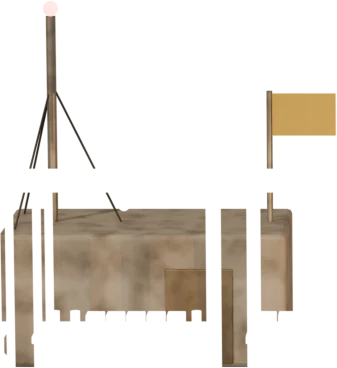
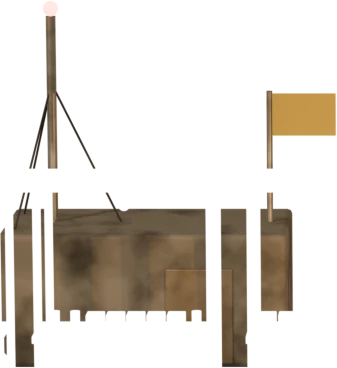
feat(v2): weathered surface (dark stained concrete, corrugated roof, sandbags, crates, tank, tyres; darker wood and lighting), soft see-through barrel fire, darker Command Center tiers; battle music (8 s war-drum loop with ostinato, drone and string stabs) fades in and out with each battle

Changed region(s): [[0.0, 0.5679, 0.6231, 1.0], [0.7715, 0.5679, 0.8902, 0.8668], [0.6528, 0.5679, 0.7418, 1.0]]

diff --git a/src/v2/sound.ts b/src/v2/sound.ts
@@ -116,6 +116,112 @@ function startAmbience(): void {
   }, 1200);
 }
 
+/** Battle music: 8 s loop at 120 bpm (D minor) - war drums, a pulsing low ostinato, a dark drone and string stabs. */
+const battleMusic: Builder = (c, out, wet) => {
+  const beat = 0.5;
+  const drum = (t: number, f0: number, peak: number) => {
+    const o = osc(c, 'sine', f0);
+    o.frequency.setValueAtTime(f0, t);
+    o.frequency.exponentialRampToValueAtTime(f0 * 0.45, t + 0.35);
+    const g = gain(c, 0);
+    envelope(g.gain, t, peak, 0.004, 0.02, 0.45);
+    o.connect(g).connect(out);
+    g.connect(wet);
+    o.start(t);
+    o.stop(t + 0.6);
+    noiseHit(c, out, t, 0.12, peak * 0.35, 'lowpass', 900, 0.7, 'brown', 17);
+  };
+  for (let bar = 0; bar < 4; bar++) {
+    const b0 = bar * 4 * beat;
+    // taiko pattern: 1 . 3 4& , accent on the last bar
+    drum(b0, 95, 0.9);
+    drum(b0 + 2 * beat, 85, 0.75);
+    drum(b0 + 3 * beat, 95, 0.6);
+    drum(b0 + 3.5 * beat, 110, bar === 3 ? 0.8 : 0.45);
+    // snare-like rim on 2 and 4
+    noiseHit(c, out, b0 + beat, 0.09, 0.22, 'bandpass', 2400, 1.2, 'white', 19 + bar);
+    noiseHit(c, out, b0 + 3 * beat, 0.09, 0.26, 'bandpass', 2200, 1.2, 'white', 23 + bar);
+    // hats on the off-beats
+    for (let k = 0; k < 8; k++) noiseHit(c, out, b0 + k * beat / 2 + beat / 4, 0.03, 0.06, 'highpass', 7000, 0.7, 'white', 29 + k);
+  }
+  // low ostinato (8ths): D D F D | D D A# A
+  const notes = [38, 38, 41, 38, 38, 38, 46, 45];
+  for (let i = 0; i < 32; i++) {
+    const t = i * beat / 2;
+    const f = 440 * 2 ** ((notes[i % 8] - (Math.floor(i / 16) ? 2 : 0) - 69) / 12);
+    const o = osc(c, 'sawtooth', f);
+    const lp = filter(c, 'lowpass', 520, 3);
+    const g = gain(c, 0);
+    envelope(g.gain, t, 0.11, 0.008, 0.06, 0.14);
+    o.connect(lp).connect(g).connect(out);
+    o.start(t);
+    o.stop(t + 0.3);
+  }
+  // drone (D2 + A2) breathing over the loop
+  for (const n of [38, 45]) {
+    const o = osc(c, 'sawtooth', 440 * 2 ** ((n - 12 - 69) / 12), n === 45 ? 7 : -7);
+    const lp = filter(c, 'lowpass', 300, 0.8);
+    const g = gain(c, 0.05);
+    o.connect(lp).connect(g).connect(out);
+    g.connect(wet);
+    o.start(0);
+    o.stop(8.5);
+  }
+  // string stabs on bars 2 and 4 (D minor triad, then Bb)
+  for (const [t, chord] of [[2, [62, 65, 69]], [6, [58, 62, 65]]] as [number, number[]][]) {
+    for (const n of chord) {
+      const o = osc(c, 'sawtooth', 440 * 2 ** ((n - 69) / 12));
+      const lp = filter(c, 'lowpass', 1800, 0.7);
+      const g = gain(c, 0);
+      envelope(g.gain, t, 0.05, 0.02, 0.15, 0.6);
+      o.connect(lp).connect(g).connect(out);
+      g.connect(wet);
+      o.start(t);
+      o.stop(t + 1);
+    }
+  }
+};
+
+let battleSrc: { src: AudioBufferSourceNode; g: GainNode } | null = null;
+let battleBuf: Promise<AudioBuffer> | null = null;
+
+/** The rendered battle loop (dev check: resolves to the buffer). */
+export function battleMusicBuffer(): Promise<AudioBuffer> {
+  battleBuf ??= renderLoop(8, 2, battleMusic, 61, 0.35, 32000);
+  return battleBuf;
+}
+
+/** Starts the battle loop (fades in); renders it on first use. */
+export function startBattleMusic(): void {
+  const c = ctx;
+  if (!c || !master || battleSrc) return;
+  const out = master;
+  void battleMusicBuffer().then(buf => {
+    if (battleSrc) return;
+    const src = c.createBufferSource();
+    src.buffer = buf;
+    src.loop = true;
+    const g = c.createGain();
+    g.gain.value = 0;
+    g.gain.linearRampToValueAtTime(0.5, c.currentTime + 1.2);
+    src.connect(g).connect(out);
+    src.start();
+    battleSrc = { src, g };
+  }).catch(() => { /* no music is fine */ });
+}
+
+/** Fades the battle loop out. */
+export function stopBattleMusic(): void {
+  const c = ctx;
+  const b = battleSrc;
+  battleSrc = null;
+  if (!c || !b) return;
+  b.g.gain.cancelScheduledValues(c.currentTime);
+  b.g.gain.setValueAtTime(b.g.gain.value, c.currentTime);
+  b.g.gain.linearRampToValueAtTime(0, c.currentTime + 1.5);
+  b.src.stop(c.currentTime + 1.6);
+}
+
 export function isMuted(): boolean { return muted; }
 
 export function setMuted(m: boolean): void {

diff --git a/src/v2/battleview.ts b/src/v2/battleview.ts
@@ -4,7 +4,7 @@ import { Application, Assets, Container, Graphics, Sprite, Text, Texture } from 
 import { BARRAGES, BattleSim, TIME_LIMIT, type BattleSetup, type BEvent, type BUnit } from './battle.ts';
 import { Worker3D, loadPeople } from './people.ts';
 import { Particles, softDot } from './roomfx.ts';
-import { play } from './sound.ts';
+import { play, startBattleMusic, stopBattleMusic } from './sound.ts';
 import { big, clock } from './format.ts';
 
 const ART = `${import.meta.env.BASE_URL}art/`;
@@ -96,6 +96,7 @@ export class BattleView {
     $('#bname').textContent = camp.name;
     $('#battle').classList.add('on');
     play('depart', { volume: 0.7 });
+    startBattleMusic();
     play('siren', { volume: 0.25 });
   }
 
@@ -238,6 +239,7 @@ export class BattleView {
       ${win ? `<div class="amount">🪙 ${big(this.loot.coins)} &nbsp; 💎 ${this.loot.gems}</div>` : ''}
       <button class="go">${win ? 'אסוף' : 'חזרה'}</button></div>`;
     el.classList.add('on');
+    stopBattleMusic();
     play(win ? 'cheer' : 'powerDown', { volume: 0.8 });
     if (win) play('coin', { volume: 0.7 });
     this.onEnd(win);

diff --git a/tools/blender/surface.py b/tools/blender/surface.py
@@ -80,8 +80,25 @@ box('collar', (TX, TD - 0.6, 0.1), (2.8, 1.6, 0.2), concrete, 0.02)
 
 # ---- winding house (the depot) with its gate ----
 HX = 9.0
-box('house', (HX, 2.6, 1.6), (3.2, 2.4, 3.2), concrete, 0.04)
-box('roof', (HX, 2.6, 3.3), (3.5, 2.7, 0.2), rustm, 0.02)
+house_m = mat('house_conc', (0.15, 0.145, 0.13), rough=0.92, grime=0.7, scale=2.2, bump=0.5)
+box('house', (HX, 2.6, 1.6), (3.2, 2.4, 3.2), house_m, 0.04)
+box('plinth', (HX, 2.6, 0.25), (3.3, 2.5, 0.5), mat('plinth', (0.2, 0.19, 0.17), rough=0.95, grime=0.6, scale=4, bump=0.5), 0.02)
+# corrugated sheet roof: alternating ridges, slightly sagging
+for k in range(18):
+    box(f'ridge{k}', (HX - 1.7 + k * 0.2, 2.6, 3.27 + (0.04 if k % 2 else 0) - 0.03 * math.sin(k / 17 * math.pi)), (0.2, 2.8, 0.05), rustm, 0.004, rot=(0.04, 0, 0))
+# stains running down from the roof line
+for k in range(5):
+    box(f'stain{k}', (HX - 1.3 + k * 0.6, 1.39, 2.6 - k % 2 * 0.3), (0.12 + k % 3 * 0.05, 0.01, 1.1 + k % 2 * 0.5), mat('stain', (0.10, 0.09, 0.07), rough=0.9), 0)
+# clutter at the house: sandbags, crates, a rusty tank, a tyre stack
+sandm = mat('sandbag2', (0.32, 0.28, 0.19), rough=0.95, grime=0.5, scale=20, bump=0.45)
+for i in range(6):
+    sphere(f'hsb{i}', (HX - 1.6 + i * 0.32, 1.2, 0.15), 0.19, sandm, scale=(1.0, 0.75, 0.6))
+for i in range(3):
+    box(f'hcr{i}', (HX + 1.35 + (i % 2) * 0.1, 1.25, 0.22 + i * 0.42), (0.42, 0.42, 0.42), mat('crate_s', (0.30, 0.21, 0.12), rough=0.85, grime=0.6, scale=10, bump=0.3), 0.02)
+cyl('tank', (HX - 2.0, 3.2, 0.6), 0.45, 1.2, rustm)
+for i in range(3):
+    bpy.ops.mesh.primitive_torus_add(major_radius=0.3, minor_radius=0.1, location=(6.2, 1.1, 0.1 + i * 0.19))
+    bpy.context.object.data.materials.append(dark)
 box('gate', (HX + 0.3, 1.39, 1.15), (1.8, 0.05, 2.2), mat('gate', (0.38, 0.30, 0.22), metal=0.4, rough=0.6, grime=0.6, scale=6, bump=0.2), 0.01)
 for k in (-1, 1):
     box(f'gate_x{k}', (HX + 0.3, 1.36, 1.15), (0.08, 0.03, 2.6), steel, 0, rot=(0, 0.7 * k, 0))
@@ -97,11 +114,11 @@ for k in range(5):
         o.keyframe_insert('scale', frame=f)
 lamp_m, _ = emissive('gate_lamp', (1, 0.75, 0.4), 12)
 sphere('gate_lamp', (HX + 0.3, 1.3, 2.55), 0.08, lamp_m)
-point((HX + 0.3, 1.0, 2.4), 120, (1, 0.7, 0.4), 0.2)
+point((HX + 0.3, 1.0, 2.4), 45, (1, 0.7, 0.4), 0.2)
 
 # ---- market: three stalls with flapping awnings, goods, a fire barrel ----
 cloths = [mat('cloth_r', (0.55, 0.16, 0.10), rough=0.9, grime=0.4, scale=20, bump=0.2), mat('cloth_y', (0.70, 0.52, 0.18), rough=0.9, grime=0.4, scale=20, bump=0.2), mat('cloth_b', (0.18, 0.30, 0.45), rough=0.9, grime=0.4, scale=20, bump=0.2)]
-wood = mat('wood', (0.40, 0.27, 0.15), rough=0.8, grime=0.5, scale=10, bump=0.2)
+wood = mat('wood', (0.19, 0.13, 0.08), rough=0.85, grime=0.65, scale=10, bump=0.4)
 for k, sx in enumerate((1.4, 3.5, 5.6)):
     for px in (sx - 0.85, sx + 0.85):
         for py in (1.6, 2.6):
@@ -137,14 +154,16 @@ for k, sx in enumerate((1.4, 3.5, 5.6)):
 for i in range(4):
     cyl(f'barrel{i}', (0.4 + i * 0.25 * (i % 2) + 6.6 + (i // 2) * 0.6, 2.3 + (i % 2) * 0.5, 0.45), 0.28, 0.9, rustm)
 cyl('firebarrel', (7.1, 1.3, 0.45), 0.3, 0.9, rustm)
-fm, fs = emissive('fire', (1, 0.4, 0.05), 6)
-anim_value(fs, FR, lambda t: 5 + 2 * math.sin(2 * math.pi * 3 * t) + 1 * math.sin(2 * math.pi * 5 * t + 1))
-for k in range(5):
-    o = sphere(f'flame{k}', (7.1, 1.3, 0.95), 0.12, fm, scale=(1, 1, 1.6))
+fm = fire_mat('barrel_fire', (1, 0.45, 0.08), 7)
+fm2 = fire_mat('barrel_fire2', (1, 0.75, 0.25), 9)
+sphere('coals', (7.1, 1.3, 0.9), 0.24, emissive('coals', (1, 0.3, 0.05), 2.5)[0], scale=(1, 1, 0.25))
+for k in range(8):
+    o = sphere(f'flame{k}', (7.1, 1.3, 0.95), 0.1, fm if k % 3 else fm2, scale=(1, 1, 1.8))
+    dx = (k % 4 - 1.5) * 0.07
     for f in range(1, FR + 2):
-        t = ((f - 1) / FR + k / 5) % 1
-        o.location = (7.1 + 0.06 * math.sin(2 * math.pi * (t + k / 5)), 1.3, 0.92 + 0.45 * t)
-        o.scale = ((1 - t) * 1.0 + 0.1,) * 2 + ((1 - t) * 1.6 + 0.1,)
+        t = ((f - 1) / FR + k / 8) % 1
+        o.location = (7.1 + dx + 0.05 * math.sin(2 * math.pi * (t * 2 + k / 8)), 1.3, 0.93 + 0.5 * t)
+        o.scale = ((1 - t) * 0.9 + 0.05,) * 2 + ((1 - t) * 1.8 + 0.1,)
         o.keyframe_insert('location', frame=f)
         o.keyframe_insert('scale', frame=f)
 bpy.ops.object.light_add(type='POINT', location=(7.1, 1.0, 1.3))
@@ -155,10 +174,10 @@ fl.data.energy = 220
 # evening sun from the left, sky fill
 bpy.ops.object.light_add(type='SUN', rotation=(math.radians(55), math.radians(-35), math.radians(-20)))
 sun = bpy.context.object
-sun.data.energy = 1.8
+sun.data.energy = 1.35
 sun.data.color = (1, 0.78, 0.55)
 sun.data.angle = math.radians(4)
-area((SW / 2, -4, 6), 180, 10, (0.6, 0.7, 0.9), rot=(math.radians(60), 0, 0))
+area((SW / 2, -4, 6), 90, 10, (0.6, 0.7, 0.9), rot=(math.radians(60), 0, 0))
 CC_TIER = int(sys.argv[sys.argv.index('--cc') + 1]) if '--cc' in sys.argv else 0
 if CC_TIER:
     # render only the Command Center; everything already in the scene becomes a holdout (it still hides what is behind)
@@ -172,7 +191,7 @@ if CC_TIER:
     bp.hide_render = True
     sc.render.film_transparent = True
     cx, cy = 3.5, 4.3
-    conc = mat('cc_conc', (0.30, 0.29, 0.27), rough=0.9, grime=0.55, scale=3, bump=0.35)
+    conc = mat('cc_conc', (0.17, 0.165, 0.15), rough=0.92, grime=0.7, scale=2.2, bump=0.5)
     olive = mat('cc_olive', (0.22, 0.24, 0.16), metal=0.3, rough=0.6, grime=0.5, scale=5)
     sandm = mat('cc_sand', (0.38, 0.33, 0.22), rough=0.95, grime=0.4, scale=20, bump=0.4)
     flag = mat('cc_flag', (0.55, 0.42, 0.10), rough=0.8)

diff --git a/tools/blender/lib.py b/tools/blender/lib.py
@@ -702,3 +702,39 @@ def fast_leaf(name, loc, r, m, parent, scale, rot):
     o.material_slots[0].link = 'OBJECT'
     o.material_slots[0].material = m
     return o
+
+
+def fire_mat(name='fire_soft', color=(1.0, 0.42, 0.06), strength=6.0):
+    """Soft flame: emissive at the core, fading to transparent toward the silhouette (no solid blobs)."""
+    m = bpy.data.materials.new(name)
+    m.use_nodes = True
+    nt = m.node_tree
+    for n in list(nt.nodes):
+        if n.type != 'OUTPUT_MATERIAL':
+            nt.nodes.remove(n)
+    out = nt.nodes['Material Output']
+    tr = nt.nodes.new('ShaderNodeBsdfTransparent')
+    em = nt.nodes.new('ShaderNodeEmission')
+    em.inputs['Color'].default_value = (*color, 1)
+    em.inputs['Strength'].default_value = strength
+    lw = nt.nodes.new('ShaderNodeLayerWeight')
+    lw.inputs['Blend'].default_value = 0.45
+    inv = nt.nodes.new('ShaderNodeMath')
+    inv.operation = 'SUBTRACT'
+    inv.inputs[0].default_value = 1.0
+    nt.links.new(lw.outputs['Facing'], inv.inputs[1])
+    pw = nt.nodes.new('ShaderNodeMath')
+    pw.operation = 'POWER'
+    pw.inputs[1].default_value = 1.6
+    nt.links.new(inv.outputs['Value'], pw.inputs[0])
+    mix = nt.nodes.new('ShaderNodeMixShader')
+    nt.links.new(pw.outputs['Value'], mix.inputs['Fac'])
+    nt.links.new(tr.outputs['BSDF'], mix.inputs[1])
+    nt.links.new(em.outputs['Emission'], mix.inputs[2])
+    nt.links.new(mix.outputs['Shader'], out.inputs['Surface'])
+    for attr, val in (('surface_render_method', 'BLENDED'), ('blend_method', 'BLEND')):
+        try:
+            setattr(m, attr, val)
+        except Exception:
+            pass
+    return m
